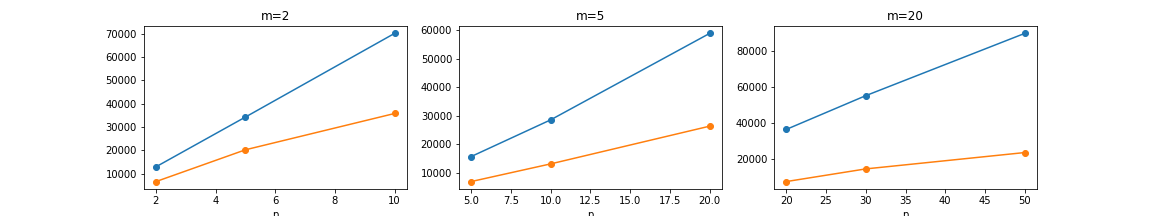
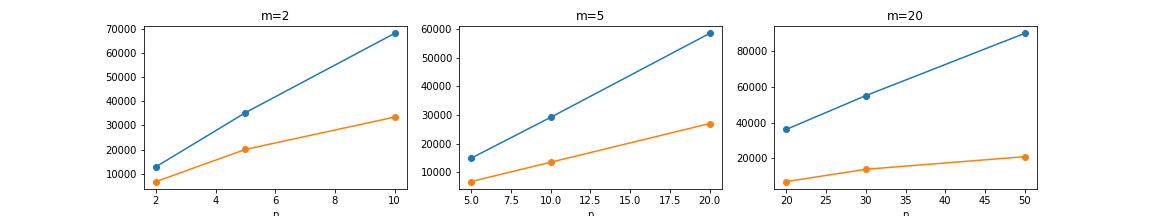
fix random seed in Christofides. Re-run simulations

diff --git a/src/common.py b/src/common.py
@@ -4,13 +4,13 @@ __all__ = ["logger"]
 
 
 # SET THESE TWO #
-stream_level = 1  # 0 for debug, 1 for info, 2 for warning
-file_level = 0  # 0 for debug, 1 for info, 2 for warning
+stream_level = 1  # 0 for debug, 1 for info, 2 for warning, 3 for critical
+file_level = 0  # 0 for debug, 1 for info, 2 for warning, 3 for critical
 #################
 
 LOGGER_NAME = "main_logger"
 LOG_FILENAME = "info.log"
-LEVELS = [logging.DEBUG, logging.INFO, logging.WARNING]
+LEVELS = [logging.DEBUG, logging.INFO, logging.WARNING, logging.CRITICAL]
 
 logger = logging.getLogger(LOGGER_NAME)
 logger.setLevel(LEVELS[0])  # set global level. It must be the lowest possible

diff --git a/src/christofides.py b/src/christofides.py
@@ -17,6 +17,9 @@ import random
 #           i.e., 1->0->2->1 can be rearrenged as 0->2->1->0
 ###
 def christofides_tsp(data):
+
+    random.seed(0)  # to ensure reproducibility
+
     # build a graph
     G = _build_graph(data)
 
